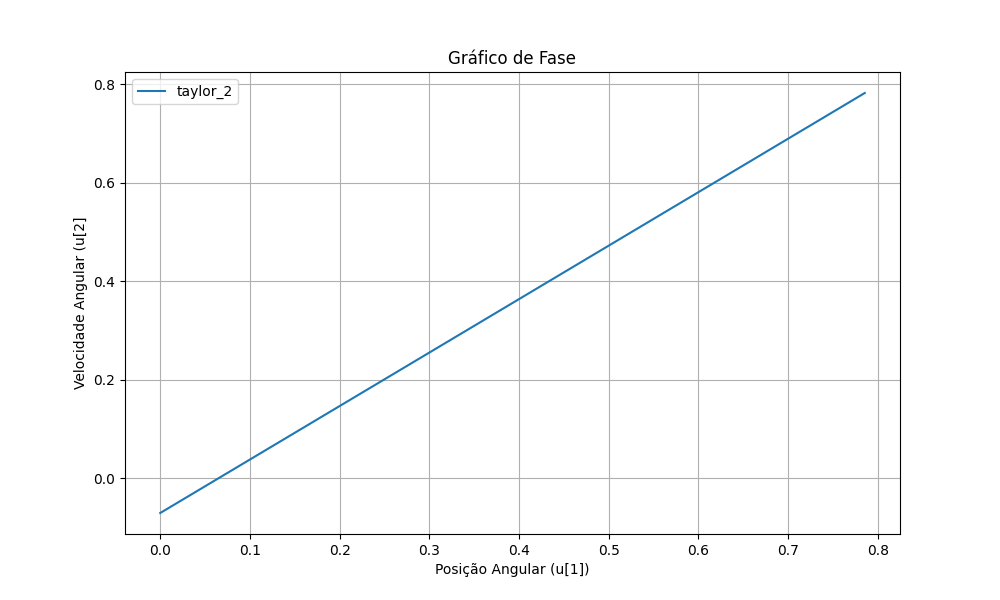
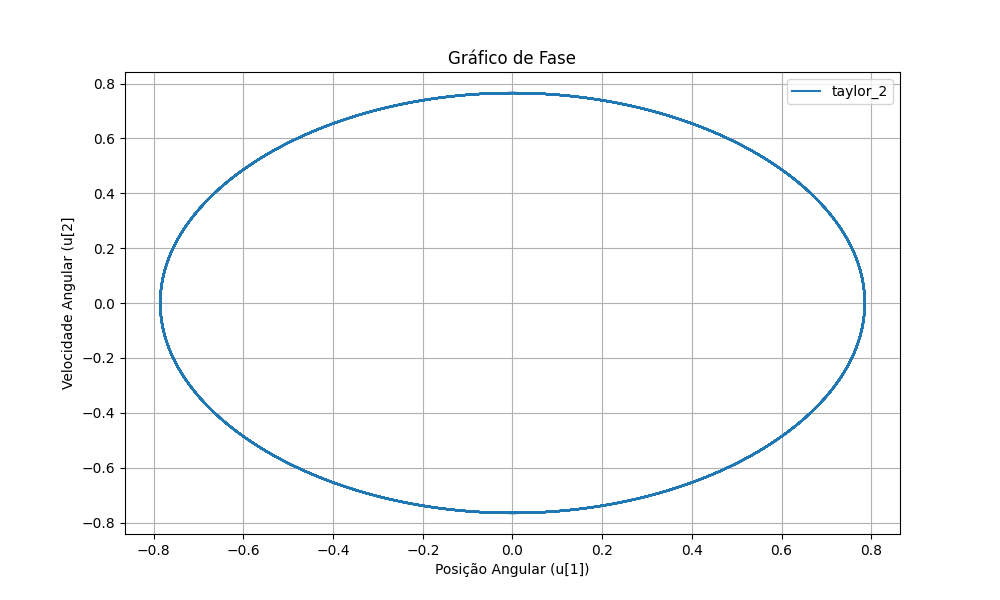
bao

diff --git a/02/Metodos.py b/02/Metodos.py
@@ -31,7 +31,7 @@ class Metodos:
                              "adams_bashforth2": self.adams_bashforth2, "euler_implicito": self.euler_implicito,
                              "preditor_corretor": self.preditor_corretor}
 
-        # self.tempos_execucao()
+        self.tempos_execucao()
 
         for i in self.metodos_dict.keys():
             self.plot_vel_pos(i)
@@ -329,16 +329,16 @@ class Metodos:
     def erros_metodos(self, metodo, titulo):
 
         # Parâmetros da simulação
-        h_values = [0.1, 0.05, 0.001, 0.0005, 0.0001]
+        h_values = [0.01, 0.001, 0.0001, 0.00001, 0.000001]
 
         # Cálculo e plotagem da ordem de convergência temporal para o método de Euler explícito
         error_list = []
         for h in h_values:
             t, u_metodo = metodo(self.t0, self.u0, h, self.num_passos)
 
-            u_ref = self.sol_referencia(self.t0, self.u0)
+            u_aprox = np.array([u_metodo[-1][0], u_metodo[-1][1]])
 
-            error = self.calculate_error(u_ref, u_metodo)
+            error = self.calculate_error(self.u_ref, u_aprox)
 
             error_list.append(error)
 
@@ -347,34 +347,36 @@ class Metodos:
         plt.xlabel('Tamanho do Passo (h)')
         plt.ylabel('Erro de Aproximação')
         plt.title('Gráfico de Convergência do Erro - ' + titulo)
+        plt.grid(True)
 
         if not os.path.exists('graficos_erros'):
             os.makedirs('graficos_erros')
         plt.savefig('graficos_erros/' + titulo + '.png')
+
         plt.close()
 
         return None
 
-    def calculate_error(self, y_exact, y_approx):
+    def calculate_error(self, u_exact, u_approx):
         """
         Calcula o erro absoluto entre a solução exata e a solução aproximada.
 
         Args:
-            y_exact: Lista contendo os valores exatos da solução.
-            y_approx: Lista contendo os valores aproximados da solução.
+            u_exact: Lista contendo os valores exatos da solução.
+            u_approx: Lista contendo os valores aproximados da solução.
 
         Returns:
             Lista contendo os valores do erro absoluto.
         """
 
         # # Calculando o erro
-        erro_absoluto = np.abs(y_exact - y_approx)
+        erro_absoluto = np.abs(u_exact - u_approx)
 
         # Calculando a norma máxima
         norma_max = np.amax(np.abs(erro_absoluto))
 
         # Calculando o erro relativo
-        erro_relativo = norma_max / np.amax(y_exact - y_approx)
+        erro_relativo = norma_max / np.amax(u_exact - u_approx)
 
         return norma_max
 
@@ -382,9 +384,12 @@ class Metodos:
 
         t, u = metodo(self.t0, self.u0, self.h, self.num_passos)
 
+        primeira_coluna = [linha[0] for linha in u]
+        segunda_coluna = [linha[1] for linha in u]
+
         # Plotando o gráfico de fase
         plt.figure(figsize=(10, 6))
-        plt.plot(u[0][0], u[:][1], label=titulo)
+        plt.plot(primeira_coluna, segunda_coluna, label=titulo)
 
         plt.xlabel('Posição Angular (u[1])')
         plt.ylabel('Velocidade Angular (u[2]')
@@ -398,7 +403,7 @@ class Metodos:
         plt.close()
 
     def tempos_execucao(self):
-        h_values = [0.01, 0.001, 0.0001]
+        h_values = [0.01, 0.001, 0.0001, 0.00001, 0.000001]
 
         tempos = {"euler_explicito": [], "taylor_2": [],
                   "adams_bashforth2":  [], "euler_implicito": [],

diff --git a/02/main.py b/02/main.py
@@ -5,8 +5,8 @@ t0 = 0
 # Condição inicial u(0) = [u1(0), u2(0)]
 u0 = np.array([np.pi/4, 0])
 # Tamanho do passo
-h = 0.1
+h = 0.01
 # Número de passos
-num_passos = 300
+num_passos = 10000
 
 metodos = Metodos(t0, u0, h, num_passos)
